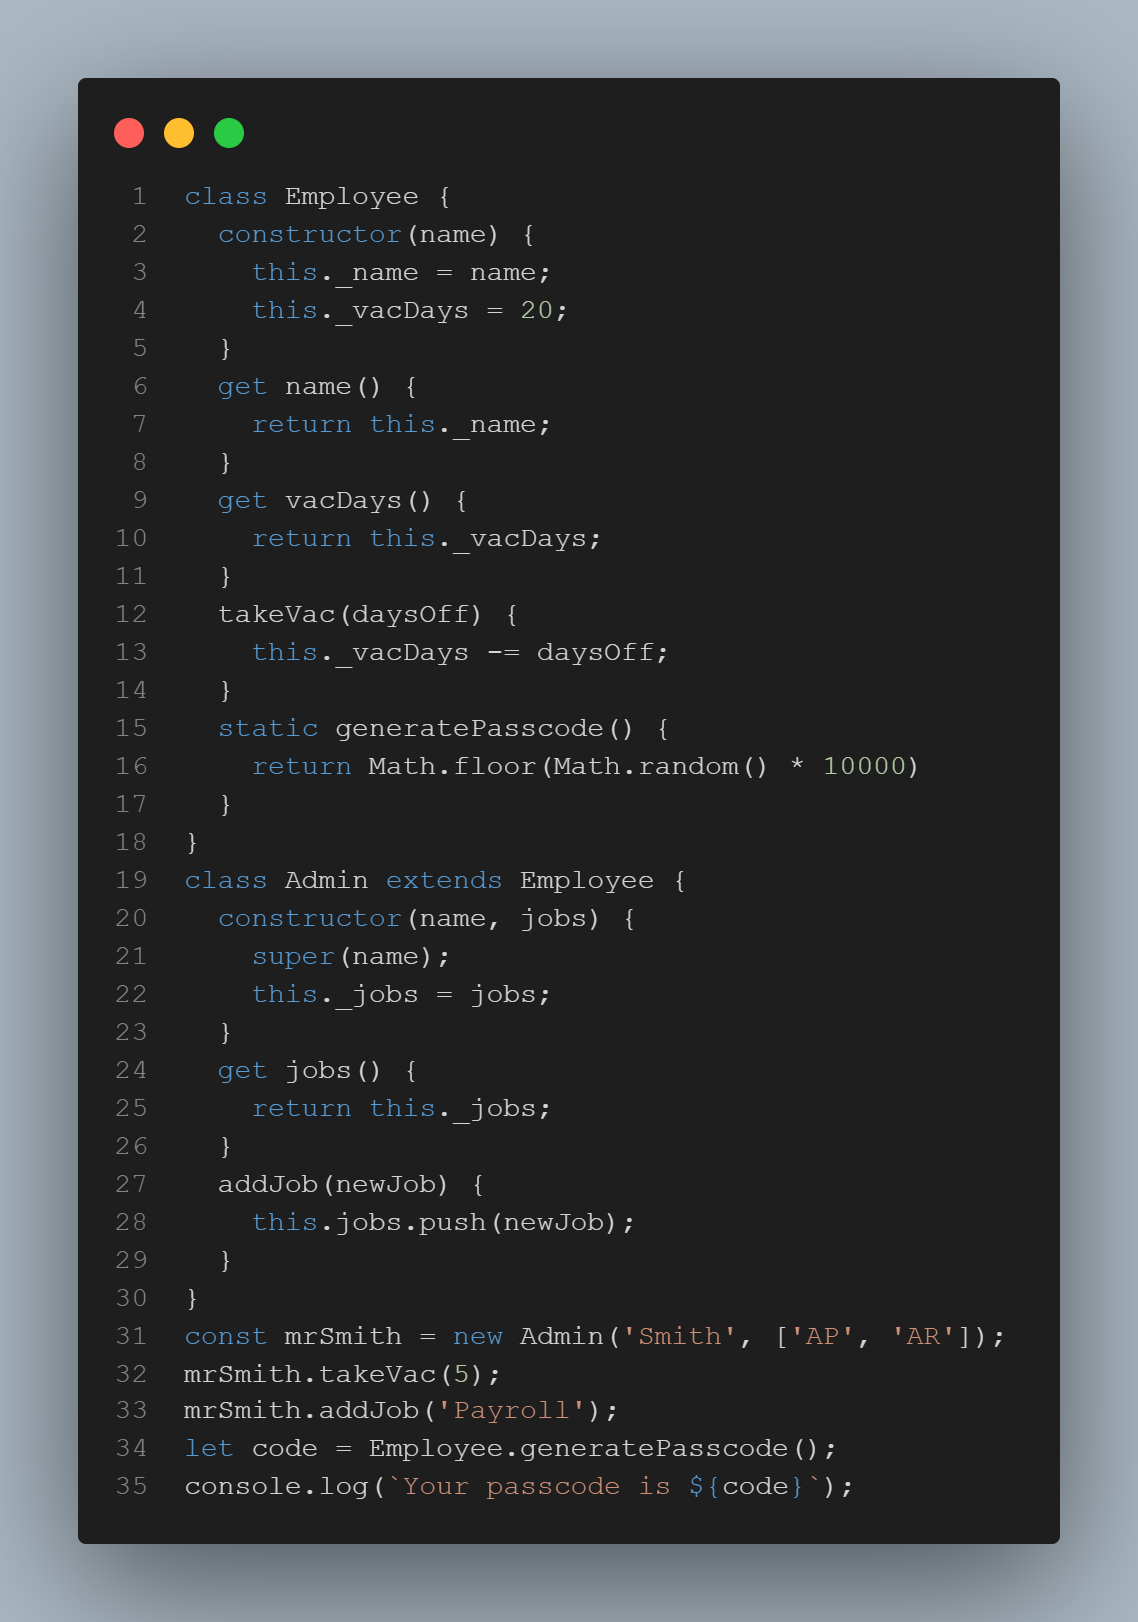
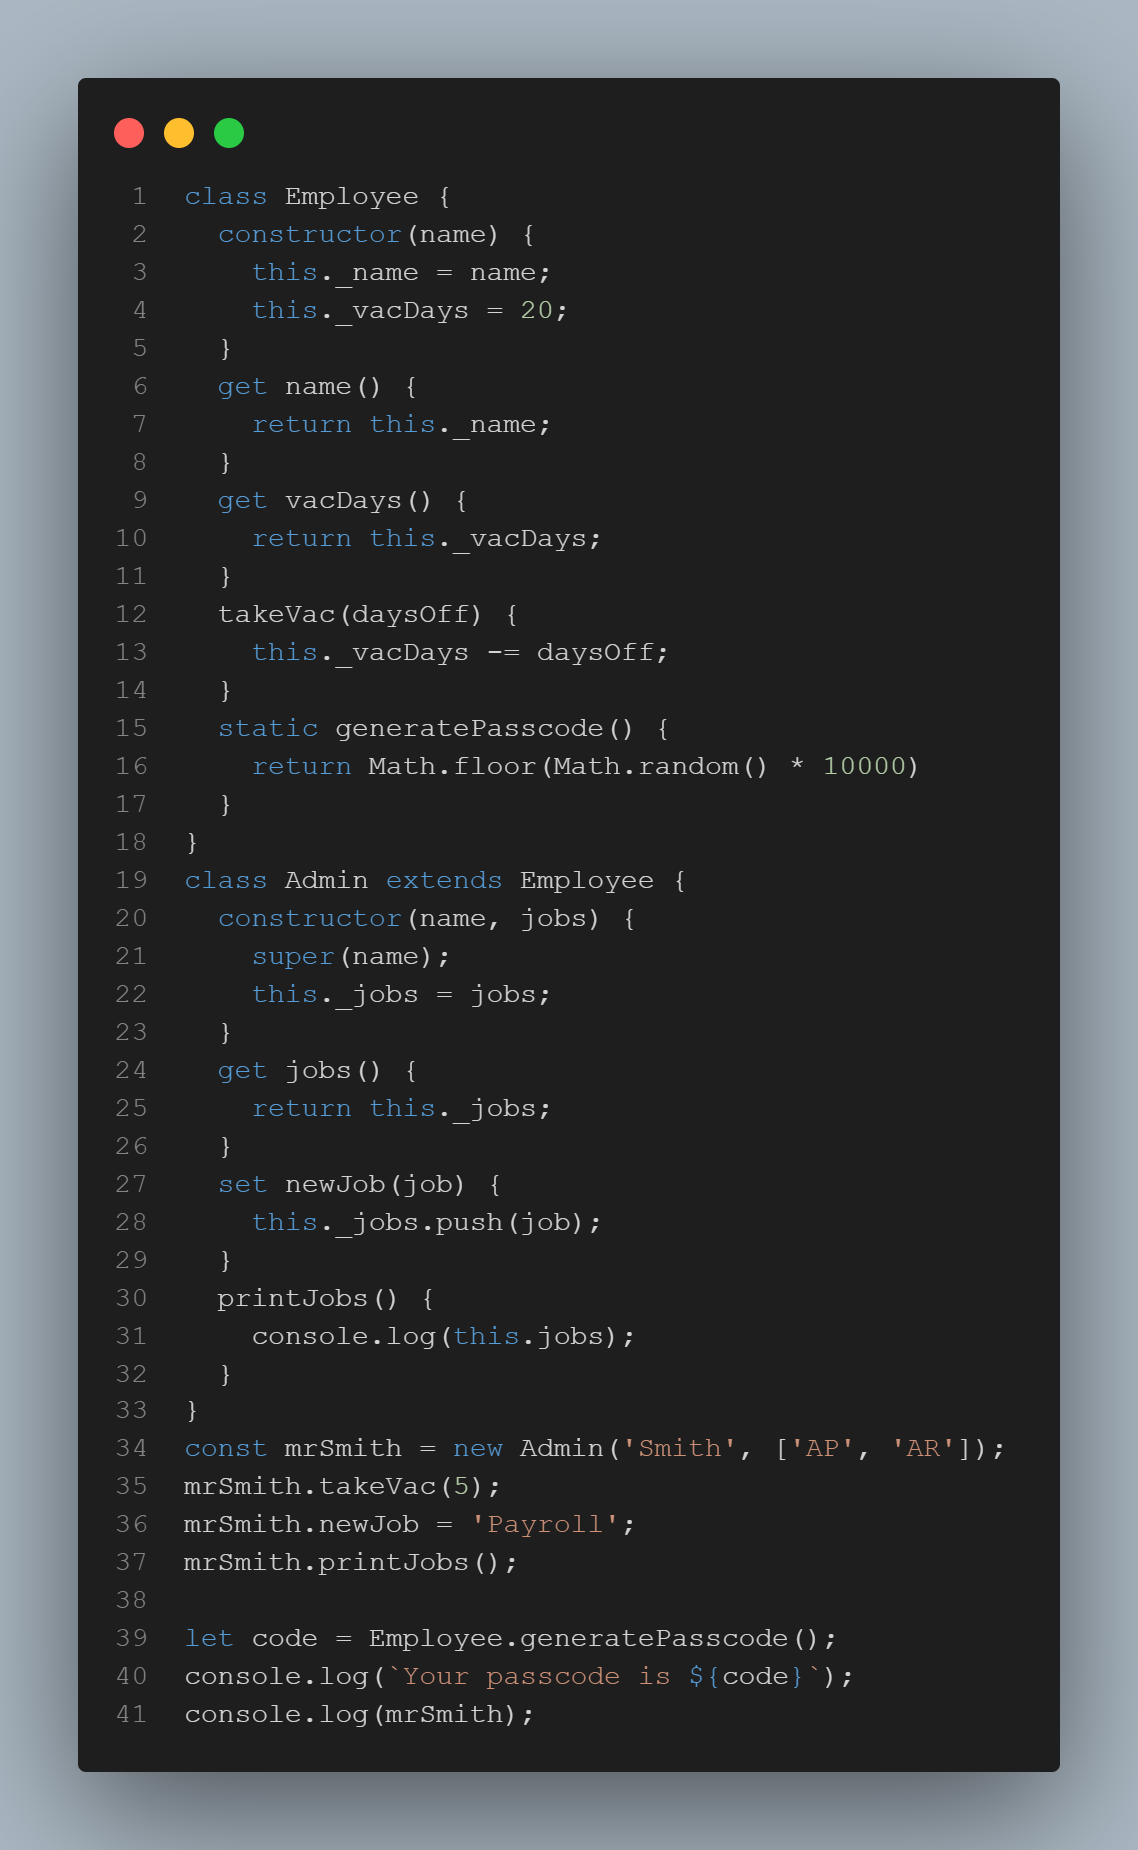
improved class example

diff --git a/index.html b/index.html
@@ -109,7 +109,6 @@
       <p>Loops using <code>for</code> ... <code> in</code> iterate through keys of an object</p>
       <p>The <code>break</code> keyword can be used to get out of a loop</p></p>
       <p>The <code>continue</code> keyword can be used to skip to the next iteration</p>
-      <p>Examples:</p>
       <img src="images/examples-loop.png" class="example-img">
       <hr />
     </div>
@@ -168,7 +167,6 @@
       <p>The keyword <code>delete</code> deletes both the key and the value.</p>
       <p>Object methods are property values that are functions.</p>
       <p>Destructuring assignment is used to extract object properties into variables.</p>
-      <p>Example: </p>
       <img src="images/example-object.png" class="example-img">
       <hr />
     </div>
@@ -177,12 +175,13 @@
       <h2>Classes</h2>
       <p>A class is a template for creating objects.</p>
       <p>By convention, we capitalize and PascalCase class names.</p>
+      <p>A setter is a method to set a new value using the keyword <code>set</code>.</p>
+      <p>A getter is a method to get an existing value using the keyword <code>get</code>.</p>
       <p>Methods in classes do not have any separators between them.</p>      <p>JavaScript calls the <code>constructor</code> method every time it creates a new instance.</p>      
       <p>New instances are created using the <code>new</code> keyword.</p>
       <p><code>static</code> methods are called on the class itself. </p>
       <p>A child class can extend a parent class by using the <code>extends</code> keyword. </p>
-      <p>A child class constructor calls the parent class constructor using the <code>super</code> method.</p>
-      <p>Example:</p>
+      <p>A child class constructor calls the parent class constructor using the <code>super</code> method. <code>super</code> must be called first.</p>
       <img src="images/example-class.png" class="example-img">
     </div>
   </main>

diff --git a/script.js b/script.js
@@ -106,13 +106,19 @@ function classExample() {
     get jobs() {
       return this._jobs;
     }
-    addJob(newJob) {
-      this.jobs.push(newJob);
+    set newJob(job) {
+      this._jobs.push(job);
+    }
+    printJobs() {
+      console.log(this.jobs);
     }
   }
   const mrSmith = new Admin('Smith', ['AP', 'AR']);
   mrSmith.takeVac(5);
-  mrSmith.addJob('Payroll');
+  mrSmith.newJob = 'Payroll';
+  mrSmith.printJobs();
+
   let code = Employee.generatePasscode();
   console.log(`Your passcode is ${code}`);
+  console.log(mrSmith);
 }
